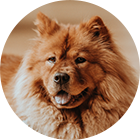
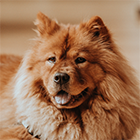
задан бордеррадиус изображениям пород. проект окончен(дубль2)

diff --git a/style/style.css b/style/style.css
@@ -461,6 +461,11 @@ border-radius: 15px;
   padding-right: 20px;
 }
 
+.breed_type_img img{
+  border: 0px solid #000;
+  border-radius: 70px;
+}
+
 .breed_type_content{
   -webkit-flex-direction: column;
   -moz-flex-direction: column;
